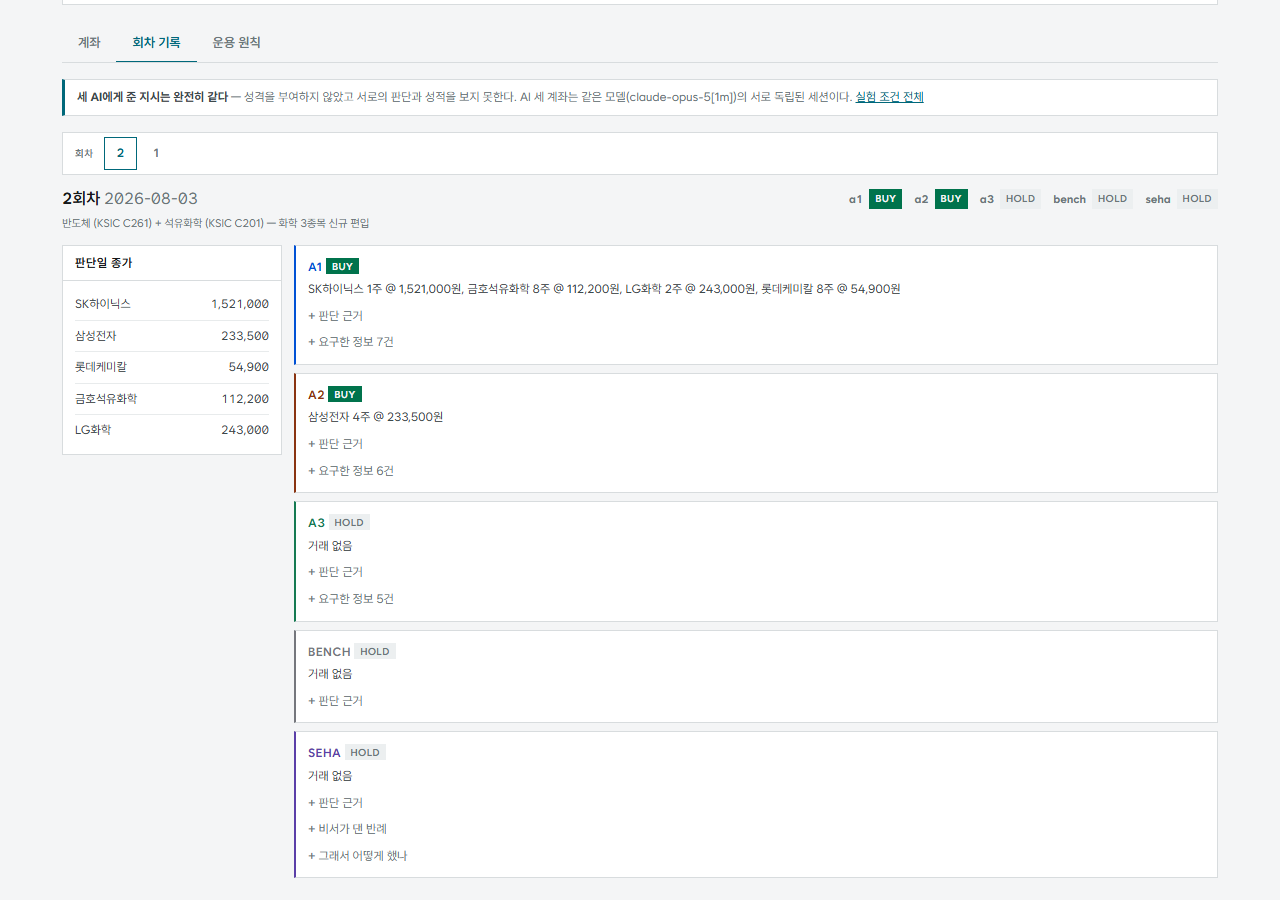
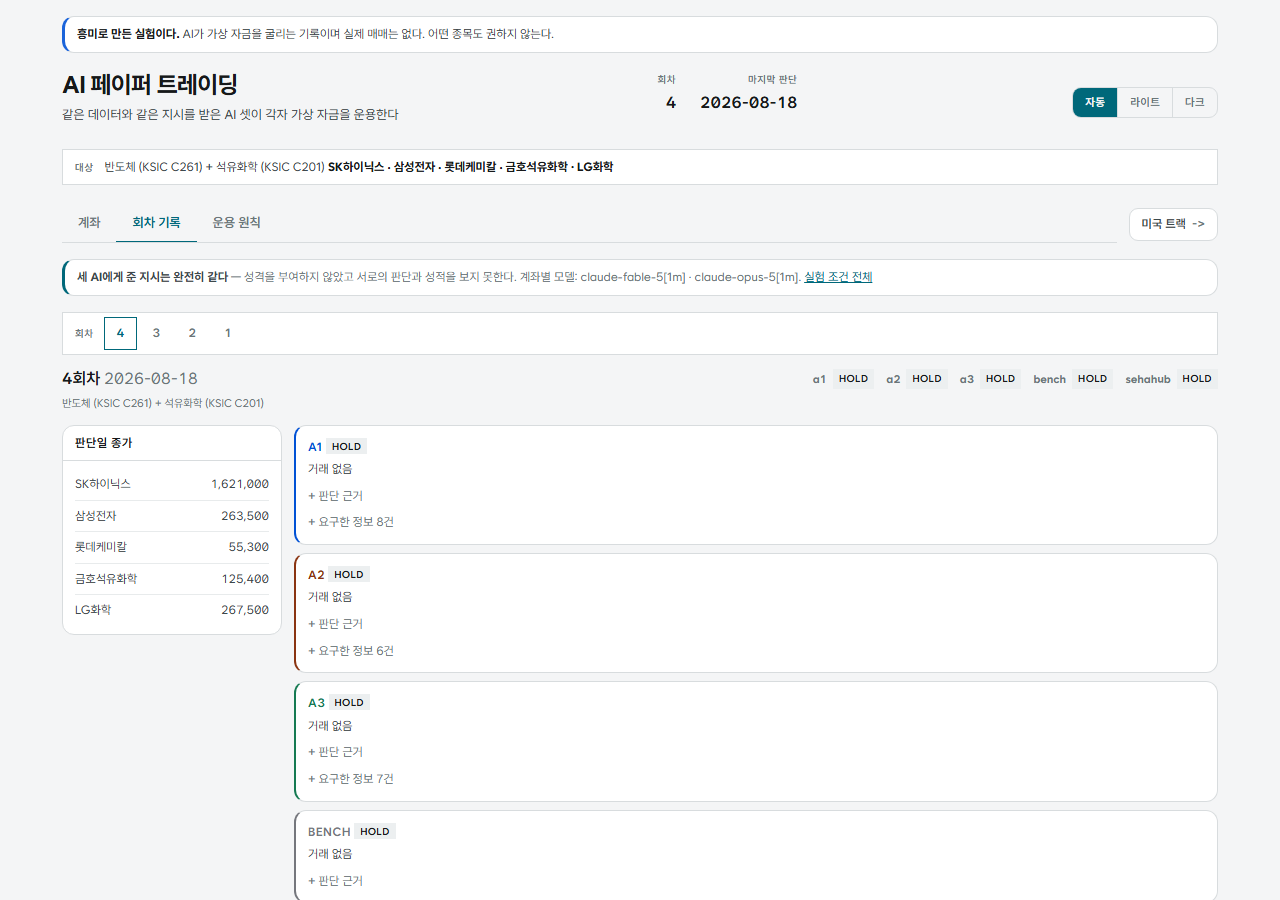
feat(projects): AI 페이퍼 페이지 개편 — 두 트랙·라이브 배선 반영
- 데모 링크 다중화(demoUrl → demos[{url,label}]): 국내·미국 트랙 버튼 2개.
  trackareer 동반 이관, 목록 카드는 DEMO 배지만 쓰므로 무영향
- 폐지된 사람 계좌(seha) 서술 교체 — 벤치마크 정의 + 입력 제약 없는 별도 트랙 계좌
- "두 트랙" 절 신설 — 미국 수집기의 판정 규칙 없음 + 두 트랙 비교 불성립 명시
- "공급이 끊겨도 화면이 완결되게" 항목 + 기록층/표시층 흐름도(not-prose 블록)
- 스택 정정 — "외부 요청과 스크립트가 0개"는 8/19 실시간층 도입으로 거짓이 됐다.
  제3자 요청 0건으로 고치고 맥미니 폴러 경로(시세 API IP 확인 → 러너 불가)를 명시
- 스크린샷 3컷 재캡처(8/05 화면 → 8/20 라이브) · 1280x900 전건 동일로 종횡비 무변

diff --git a/src/content/config.ts b/src/content/config.ts
@@ -32,8 +32,9 @@ const projects = defineCollection({
       tags: z.array(z.string()),
       draft: z.boolean().optional(),
       pinned: z.boolean().optional(), // 목록·메인 상단 고정 (정렬 토글 무관)
-      demoUrl: z.string().optional(),
-      storeUrl: z.string().optional(), // 앱 스토어 링크 — 스토어 URL은 demoUrl이 아니라 이 필드에 (라벨 규약)
+      // 라이브 데모 링크 — 트랙이 여럿이면 여러 개(버튼 라벨은 데이터가 든다)
+      demos: z.array(z.object({ url: z.string(), label: z.string() })).optional(),
+      storeUrl: z.string().optional(), // 앱 스토어 링크 — 스토어 URL은 demos가 아니라 이 필드에 (라벨 규약)
       releasesUrl: z.string().optional(), // 업데이트 내역(사이트 내부 라우트) — 대표 링크는 전부 헤더 링크 박스로
       repoUrl: z.string().optional(),
       period: z.string().optional(),

diff --git a/src/content/projects/trackareer/index.md b/src/content/projects/trackareer/index.md
@@ -18,7 +18,9 @@ tags:
 - React
 - Refine
 - TypeScript
-demoUrl: "https://trackareer-admin.sehahub.info"
+demos:
+- url: "https://trackareer-admin.sehahub.info"
+  label: "라이브 데모"
 storeUrl: "https://apps.apple.com/kr/app/id6770530325"
 images:
 - src: ./web-dashboard.png
